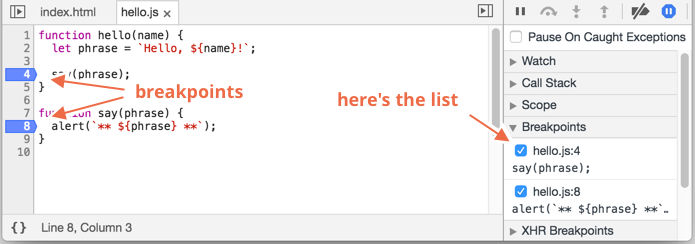
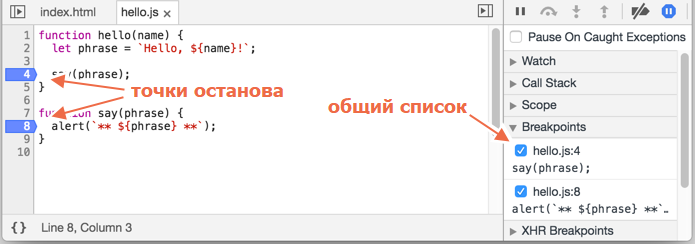
translate 01-debugging-chrome/article.md into Russian and update pictures

Changed region(s): [[0.4532, 0.373, 0.695, 0.4877], [0.1813, 0.3443, 0.423, 0.4016]]

diff --git a/1-js/03-code-quality/01-debugging-chrome/article.md b/1-js/03-code-quality/01-debugging-chrome/article.md
@@ -1,183 +1,186 @@
-# Debugging in Chrome
+# Отладка в браузере Chrome
 
-Before writing more complex code, let's talk about debugging.
+Давайте отвлечёмся от написания кода и поговорим о его отладке.
 
-All modern browsers and most other environments support "debugging" -- a special UI in developer tools that makes finding and fixing errors much easier.
+Все современные браузеры и многие среды разработки поддерживают средства отладки кода — специальный графический интерфейс для быстрого поиска и устранения ошибок.
 
-We'll be using Chrome here, because it's probably the most feature-rich in this aspect.
+Мы будем использовать браузер Chrome, так как его средства отладки представляются нам наиболее продвинутыми.
 
-## The "sources" pane
+## Панель "Исходный код" ("Sources")
 
-Your Chrome version may look a little bit different, but it still should be obvious what's there.
+Версия Chrome, установленная на вашем устройстве, может выглядеть немного иначе, однако принципиальных отличий не будет.
 
-- Open the [example page](debugging/index.html) in Chrome.
-- Turn on developer tools with `key:F12` (Mac: `key:Cmd+Opt+I`).
-- Select the `sources` pane.
+- Работая в Chrome, откройте [тестовую страницу](debugging/index.html).
+- Включите инструменты разработчика, нажав `F12` (Mac: `Cmd+Opt+I`).
+- Щёлкните по панели `sources` ("исходный код").
 
-Here's what you should see if you are doing it for the first time:
+При первом запуске получаем следующее:
 
 ![](chrome-open-sources.png)
 
-The toggler button <span class="devtools" style="background-position:-168px -76px"></span> opens the tab with files.
+Чтобы просмотреть файлы приложения, щёлкните по переключателю <span class="devtools" style="background-position:-168px -76px"></span>:
 
-Let's click it and select `index.html` and then `hello.js` in the tree view. Here's what should show up:
+В списке видим файлы `index.html` и `hello.js`. Выберем последний:
 
 ![](chrome-tabs.png)
 
-Here we can see three zones:
+Интерфейс состоит из трёх зон:
 
-1. The **Resources zone** lists HTML, JavaScript, CSS and other files, including images that are attached to the page. Chrome extensions may appear here too.
-2. The **Source zone** shows the source code.
-3. The **Information and control zone** is for debugging, we'll explore it soon.
+1. В зоне **Resources** (Ресурсы) показаны файлы HTML, JavaScript, CSS, включая изображения, используемые на странице. Здесь также могут быть файлы различных расширений Chrome.
+2. Зона **Source** отображает текст исходного кода.
+3. Наконец, зона **Information and control** (Сведения и контроль) отведена для отладки, вскоре мы к ней вернёмся.
 
-Now you could click the same toggler <span class="devtools" style="background-position:-200px -76px"></span> again to hide the resources list and give the code some space.
+Чтобы скрыть список ресурсов и освободить экранное место для исходного кода, щёлкните по тому же переключателю <span class="devtools" style="background-position:-200px -76px"></span>.
 
-## Console
+## Консоль
 
-If we press `Esc`, then a console opens below. We can type commands there and press `key:Enter` to execute.
+По нажатию на клавишу `Esc` в нижней части экрана вызывается консоль, где можно вводить команды и выполнять их клавишей `Enter`.
 
-After a statement is executed, its result is shown below.
+Результат выполнения инструкций сразу же отображается в консоли.
 
-For example, here `1+2` results in `3`, and `hello("debugger")` returns nothing, so the result is `undefined`:
+Например, результатом `1+2` будет `3`, а инструкция `hello("debugger")` ничего не возвращает, так что получаем `undefined`:
 
 ![](chrome-sources-console.png)
 
-## Breakpoints
+## Точки останова (breakpoints)
 
-Let's examine what's going on within the code of the [example page](debugging/index.html). In `hello.js`, click at line number `4`. Yes, right on the `4` digit, not on the code.
+Давайте разберёмся, как работает код нашей [тестовой страницы](debugging/index.html). В файле `hello.js` щёлкните по строчке номер `4`. Да, щёлкайте именно по самой цифре, не по коду.
 
-Congratulations! You've set a breakpoint. Please also click on the number for line `8`.
+Ура! Вы поставили точку останова. А теперь щёлкните по цифре `8` на восьмой линии. Номер строки будет окрашен в синий цвет.
 
-It should look like this (blue is where you should click):
+Вот что в итоге должно получиться:
 
 ![](chrome-sources-breakpoint.png)
 
-A *breakpoint* is a point of code where the debugger will automatically pause the JavaScript execution.
+*Точка останова* – это участок кода, где отладчик автоматически приостановит исполнение JavaScript.
 
-While the code is paused, we can examine current variables, execute commands in the console etc. In other words, we can debug it.
+Пока исполнение поставлено "на паузу", мы можем просмотреть текущие значения переменных, выполнить команды в консоли, – одним словом, мы выполняем отладку кода. 
 
-We can always find a list of breakpoints in the right pane. That's useful when we have many breakpoints in various files. It allows us to:
-- Quickly jump to the breakpoint in the code (by clicking on it in the right pane).
-- Temporarily disable the breakpoint by unchecking it.
-- Remove the breakpoint by right-clicking and selecting Remove.
-- ...And so on.
+В правой части графического интерфейса мы видим список точек останова. А когда таких точек выставлено много, да ещё и в разных файлах, этот список поможет эффективно управлять точками останова: 
+
+- Быстро переместиться к любой точке останова в коде – нужно щёлкнуть по точке в правой части экрана.
+- Временно деактивировать точку – в общем списке снимите галочку напротив ненужной в данный момент точки.
+- Удалить точку – щёлкните по ней правой кнопкой мыши и выберите Remove (Удалить).
+- ...и так далее.
 
 ```smart header="Conditional breakpoints"
-*Right click* on the line number allows to create a *conditional* breakpoint. It only triggers when the given expression is truthy.
+Можно задать и так называемую точку останова *с условием* – щёлкните правой кнопкой мыши по номеру строки в коде. Если задать выражение, то именно при его истинности выполнение кода будет приостановлено.
 
-That's handy when we need to stop only for a certain variable value or for certain function parameters.
+Этот метод используется, когда выполнение кода нужно остановить при присвоении определённого выражения какой-либо переменной или при определённых параметрах функции.
+
 ```
 
-## Debugger command
+## Команда Debugger
 
-We can also pause the code by using the `debugger` command, like this:
+Выполнение кода можно приостановить с помощью команды `debugger`:
 
 ```js
 function hello(name) {
-  let phrase = `Hello, ${name}!`;
+  let phrase = `Привет, ${name}!`;
 
 *!*
-  debugger;  // <-- the debugger stops here
+  debugger;  // <-- здесь выполнение прерывается
 */!*
 
   say(phrase);
 }
 ```
 
-That's very convenient when we are in a code editor and don't want to switch to the browser and look up the script in developer tools to set the breakpoint.
+Способ удобен тем, что можно продолжить работать в редакторе кода и не выставлять вручную точки останова в инструментах разработчика браузера.
 
+## Время, остановись
 
-## Pause and look around
+В нашем примере функция `hello()` вызывается во время загрузки страницы, поэтому для начала отладки проще всего её перезагрузить. Нажмите `F5` (Windows, Linux) или `Cmd+R` (Mac).
 
-In our example, `hello()` is called during the page load, so the easiest way to activate the debugger is to reload the page. So let's press `key:F5` (Windows, Linux) or `key:Cmd+R` (Mac).
-
-As the breakpoint is set, the execution pauses at the 4th line:
+Выполнение прервется на четвертой строчке:
 
 ![](chrome-sources-debugger-pause.png)
 
-Please open the informational dropdowns to the right (labeled with arrows). They allow you to examine the current code state:
+Чтобы понять, что происходит в коде, щёлкните по стрелочкам справа:
 
-1. **`Watch` -- shows current values for any expressions.**
+1. **`Watch` показывает текущие значения выражений.**
 
-    You can click the plus `+` and input an expression. The debugger will show its value at any moment, automatically recalculating it in the process of execution.
+    Выберите `+` и введите выражение. В процессе выполнения отладчик автоматически пересчитывает и выводит его значение.
 
-2. **`Call Stack` -- shows the nested calls chain.**
+2. **`Call Stack` показывает последовательность вызовов функций.**
 
-    At the current moment the debugger is inside `hello()` call, called by a script in `index.html` (no function there, so it's called "anonymous").
+    В нашем примере отладчик работает с функцией `hello()`, вызванной сценарием из файла `index.html` (там нет функции, поэтому вызов "анонимный").
 
-    If you click on a stack item, the debugger jumps to the corresponding code, and all its variables can be examined as well.
-3. **`Scope` -- current variables.**
+    При нажатии на элемент списка отладчик переходит к соответствующему коду, а нам представляется возможность его проанализировать.
 
-    `Local` shows local function variables. You can also see their values highlighted right over the source.
+3. **`Scope` показывает текущие переменные.**
 
-    `Global` has global variables (out of any functions).
+    В `Local` отображаются локальные переменные функций, а их значения подсвечены в исходном коде.
 
-    There's also `this` keyword there that we didn't study yet, but we'll do that soon.
+    В `Global` перечисляются глобальные переменные (т.е. объявленные за пределами функций).
 
-## Tracing the execution
+    Не обращайте пока внимание на ключевое слово `this` – его мы изучим чуть позже.
 
-Now it's time to *trace* the script.
+## Пошаговое выполнение сценария
 
-There are buttons for it at the top of the right pane. Let's engage them.
+А теперь давайте *прошагаем* по нашему коду.
 
-<span class="devtools" style="background-position:-7px -76px"></span> -- continue the execution, hotkey `key:F8`.
-: Resumes the execution. If there are no additional breakpoints, then the execution just continues and the debugger loses control.
+В правой части панели для этого есть несколько кнопок. Рассмотрим их.
 
-    Here's what we can see after a click on it:
+<span class="devtools" style="background-position:-7px -76px"></span> – продолжить выполнение. Быстрая клавиша – `F8`.
+: Возобновляет выполнение кода. Если больше нет точек останова, отладчик прекращает работу и позволяет приложению работать дальше.
+
+    Вот что происходит:
 
     ![](chrome-sources-debugger-trace-1.png)
 
-    The execution has resumed, reached another breakpoint inside `say()` and paused there. Take a look at the "Call stack" at the right. It has increased by one more call. We're inside `say()` now.
+    Выполнение кода возобновилось, затем отладчик обратился к другой точке останова `say()` и приостановил выполнение. Обратите внимание на пункт "Call stack" справа: в списке появился ещё один вызов. Далее мы наблюдаем выполнение функции `say()`.
 
-<span class="devtools" style="background-position:-137px -76px"></span> -- make a step (run the next command), but *don't go into the function*, hotkey `key:F10`.
-: If we click it now, `alert` will be shown. The important thing is that `alert` can be any function, the execution "steps over it", skipping the function internals.
+<span class="devtools" style="background-position:-137px -76px"></span> – сделать шаг (выполнить следующую команду), *не заходя в функцию*. Быстрая клавиша – `F10`.
+: При нажатии видим, что вызвана функция `alert`. Важно: на месте `alert` может быть любая другая функция, а выполнение просто *перешагнёт через неё*, полностью игнорируя её содержимое.
 
-<span class="devtools" style="background-position:-72px -76px"></span> -- make a step, hotkey `key:F11`.
-: The same as the previous one, but "steps into" nested functions. Clicking this will step through all script actions one by one.
+<span class="devtools" style="background-position:-72px -76px"></span> – сделать шаг. Быстрая клавиша – `F11`.
+: В отличие от предыдущего примера, здесь мы "заходим" во вложенные функции и шаг за шагом проходим по сценарию.
 
-<span class="devtools" style="background-position:-104px -76px"></span> -- continue the execution till the end of the current function, hotkey `key:Shift+F11`.
-: The execution would stop at the very last line of the current function. That's handy when we accidentally entered a nested call using <span class="devtools" style="background-position:-72px -76px"></span>, but it does not interest us, and we want to continue to its end as soon as possible.
+<span class="devtools" style="background-position:-104px -76px"></span> – продолжить выполнение до завершения текущей функции. Быстрая клавиша – `Shift+F11`.
+: Выполнение кода остановится на самой последней строчке текущей функции. Этот метод применяется, когда мы случайно нажали <span class="devtools" style="background-position:-72px -76px"></span> и зашли в функцию, но нам она неинтересна и мы мы как можно скорее хотим из неё выбраться.
 
-<span class="devtools" style="background-position:-7px -28px"></span> -- enable/disable all breakpoints.
-: That button does not move the execution. Just a mass on/off for breakpoints.
+<span class="devtools" style="background-position:-7px -28px"></span> – активировать/деактивировать все точки останова.
+: Эта кнопка не влияет на выполнение кода, она лишь позволяет массово включить/отключить точки останова.
 
-<span class="devtools" style="background-position:-264px -4px"></span> -- enable/disable automatic pause in case of an error.
-: When enabled, and the developer tools is open, a script error automatically pauses the execution. Then we can analyze variables to see what went wrong. So if our script dies with an error, we can open debugger, enable this option and reload the page to see where it dies and what's the context at that moment.
+<span class="devtools" style="background-position:-264px -4px"></span> – разрешить/запретить остановку выполнения в случае возникновения ошибки.
+: Если опция включена и инструменты разработчика открыты, любая ошибка в сценарии приостанавливает выполнение кода, что позволяет его проанализировать. Поэтому если сценарий завершается с ошибкой, открываем отладчик, включаем эту опцию, перезагружаем страницу и локализуем проблему.
 
 ```smart header="Continue to here"
-Right click on a line of code opens the context menu with a great option called "Continue to here".
+Если щёлкнуть правой кнопкой мыши по строчке кода, в контекстном меню можно выбрать опцию "Continue to here" ("не прерываться до этого места").
 
-That's handy when we want to move multiple steps forward, but we're too lazy to set a breakpoint.
+Этот метод используется, когда нам нужно продвинуться на несколько шагов вперёд, но нам лень выставлять точки останова.
 ```
 
-## Logging
+## Отслеживание событий выполнения (Логирование)
 
-To output something to console, there's `console.log` function.
+Если нужно что-то вывести в консоль, применяется функция `console.log`.
 
-For instance, this outputs values from `0` to `4` to console:
+К примеру, выведем в консоль значения от нуля до четырёх:
 
 ```js run
-// open console to see
+// чтобы увидеть результат, сначала откройте консоль
 for (let i = 0; i < 5; i++) {
   console.log("value", i);
 }
 ```
 
-Regular users don't see that output, it is in the console. To see it, either open the Console tab of developer tools or press `key:Esc` while in another tab: that opens the console at the bottom.
+Все выводы в консоль скрыты от простого пользователя. Напомним, что консоль можно открыть только через инструменты разработчика – выберите пункт "Консоль" или нажмите `Esc`, находясь в любом другом разделе – консоль откроется в нижней части интерфейса. 
 
-If we have enough logging in our code, then we can see what's going on from the records, without the debugger.
+Если правильно выстроить логирование в приложении, то можно и без отладчика разобраться, что происходит в коде.
 
-## Summary
+## Заключение
 
-As we can see, there are three main ways to pause a script:
-1. A breakpoint.
-2. The `debugger` statements.
-3. An error (if dev tools are open and the button <span class="devtools" style="background-position:-264px -4px"></span> is "on").
+Приостановить выполнение сценария можно тремя способами:
 
-Then we can examine variables and step on to see where the execution goes wrong.
+1. Расстановка и применение точек останова.
+2. Использование выражения `debugger`.
+3. Вызов ошибки (если инструменты разработчика открыты и опция <span class="devtools" style="background-position:-264px -4px"></span> включена).
 
-There are many more options in developer tools than covered here. The full manual is at <https://developers.google.com/web/tools/chrome-devtools>.
+Всё это позволяет проанализировать переменные и пошагово пройти по процессу, что поможет отыскать проблему.
 
-The information from this chapter is enough to begin debugging, but later, especially if you do a lot of browser stuff, please go there and look through more advanced capabilities of developer tools.
+Нами описаны далеко не все инструменты разработчика. С полным руководством можно ознакомиться здесь: <https://developers.google.com/web/tools/chrome-devtools>.
 
-Oh, and also you can click at various places of dev tools and just see what's showing up. That's probably the fastest route to learn dev tools. Don't forget about the right click as well!
+Для простой отладки вполне достаточно сведений из этой главы, но в дальнейшем настоятельно рекомендуем вам изучить официальное руководство, тем более если вы собираетесь плотно связываться с браузерной спецификой.
+
+И, наконец, не забывайте, что можно просто методом проб и ошибок прощёлкать оставшиеся инструменты разработчика. Пожалуй, это наискорейший способ ими овладеть. А ведь есть ещё и правый клик!
